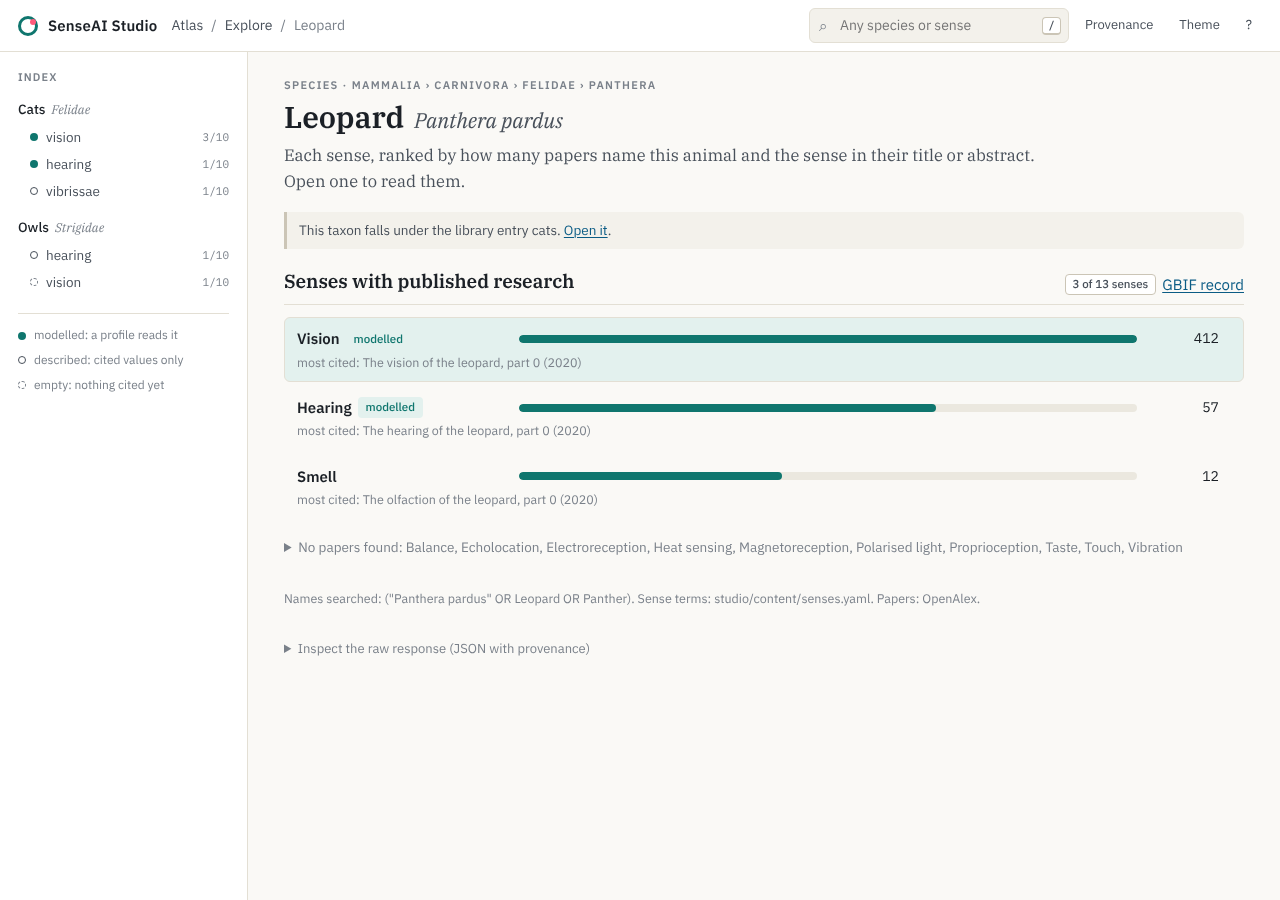
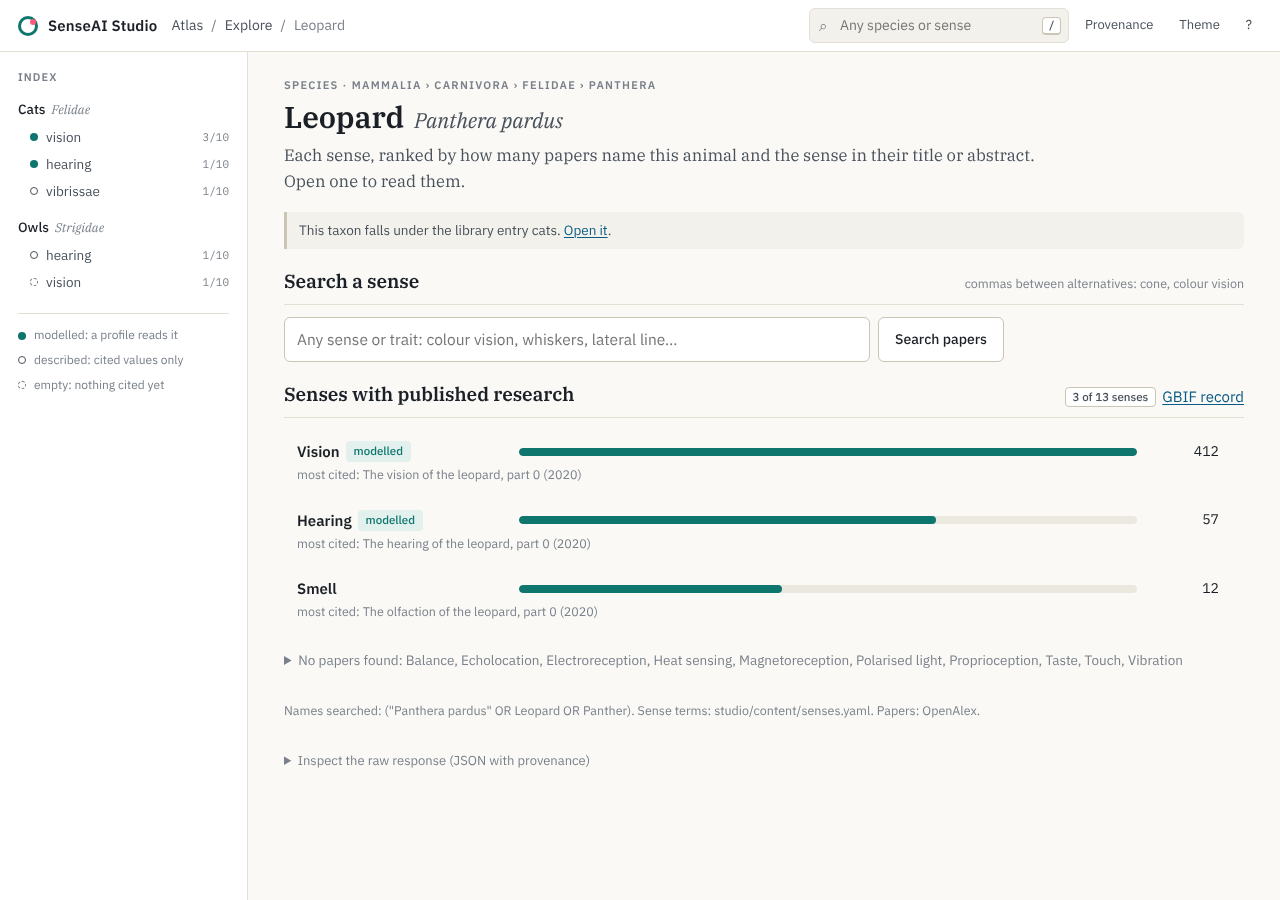
Explore: search any sense or trait on a species, beside the ranked ones
A "Search a sense" box on each taxon page takes any words (commas between
alternatives: "colour vision, cone") and opens the usual papers view for
them: /studio/explore/{key}/search?q=…, served by
GET /api/studio/explore/taxon/{key}/papers?q=. Sorting and paging keep
the query; the research assistant can summarise it like any sense.

Claude-Session: https://claude.ai/code/session_01Q4Ph61ujkYq3wHYFq86CZT

diff --git a/web/src/pages/explore.ts b/web/src/pages/explore.ts
@@ -5,6 +5,7 @@
 //   /studio/explore?q=leopard        taxa with that name (GBIF)
 //   /studio/explore/{key}            the taxon's senses, ranked by how many papers cover each
 //   /studio/explore/{key}/{sense}    those papers, and the research assistant's summary
+//   /studio/explore/{key}/search?q=  the same for any sense or trait typed in
 // Names and papers come from /api/studio/explore/*; the summary from the research service.
 
 import { api, type ExplorePapers, type LibraryLink, type Paper, type SenseHits, type Taxon } from "../api.ts";
@@ -35,6 +36,25 @@ export function speciesSearch(value = ""): HTMLFormElement {
   input.placeholder = "Any animal: leopard, barn owl, Octopus vulgaris…";
   input.setAttribute("aria-label", "Search any species");
   const go = el("button", "btn primary", "Search");
+  go.type = "submit";
+  f.append(input, go);
+  return f;
+}
+
+/** "Search a sense" on a taxon: any words, commas between alternatives. */
+function senseSearch(key: number, value = ""): HTMLFormElement {
+  const f = el("form", "explore-search sense-search");
+  f.action = `/studio/explore/${key}/search`;
+  f.method = "get";
+  f.setAttribute("role", "search");
+  const input = el("input");
+  input.name = "q";
+  input.type = "search";
+  input.required = true;
+  input.value = value;
+  input.placeholder = "Any sense or trait: colour vision, whiskers, lateral line…";
+  input.setAttribute("aria-label", "Search a sense or trait in this animal");
+  const go = el("button", "btn", "Search papers");
   go.type = "submit";
   f.append(input, go);
   return f;
@@ -133,6 +153,10 @@ async function taxonPage(root: HTMLElement, key: number): Promise<void> {
     holder.replaceChildren(header(`${t.rank ?? "taxon"} · ${lineage(t)}`, titleOf(t), "Each sense, ranked by how many papers name this animal and the sense in their title or abstract. Open one to read them."));
     const lib = libraryNote(t.library);
     if (lib) holder.append(lib);
+    const own = section("", "Search a sense");
+    own.tools.append(el("span", "faint small", "commas between alternatives: cone, colour vision"));
+    own.body.append(senseSearch(key));
+    holder.append(own.box);
     const found = res.senses.filter((s) => s.count);
     const none = res.senses.filter((s) => !s.count);
     const max = Math.max(1, ...found.map((s) => s.count ?? 0));
@@ -220,7 +244,7 @@ function assistant(t: Taxon, sense: ExplorePapers["sense"]): HTMLElement {
   const focus = t.library && sense.library ? { library_path: `${t.library.clade}.senses.${sense.library.id}` } : null;
   const who = t.common_names[0] ? `${t.scientific_name} (${t.common_names[0]})` : t.scientific_name;
   const prompt = `What does the published research say about ${sense.label.toLowerCase()} in ${who}? Search the literature, then summarise the main findings, with numbers where papers report them and the paper each one comes from. End with what is still unknown.`;
-  const key = `explore:conversation:${t.key}:${sense.id}`;
+  const key = `explore:conversation:${t.key}:${sense.id ?? `q:${sense.terms.join(",")}`}`;
   let reply: HTMLElement | null = null;
   const chips = new Map<string, HTMLElement>();
 
@@ -295,16 +319,23 @@ function assistant(t: Taxon, sense: ExplorePapers["sense"]): HTMLElement {
   return sec.box;
 }
 
-async function sensePage(root: HTMLElement, key: number, sense: string): Promise<void> {
+async function sensePage(root: HTMLElement, key: number, sense: string | null): Promise<void> {
   const params = new URLSearchParams(location.search);
   const sort = params.get("sort") === "recent" ? "recent" : "cited";
   const pageNo = Math.max(1, Number(params.get("page")) || 1);
-  const { page } = await shell(root, [["Atlas", "/studio"], ["Explore", "/studio/explore"], [String(key), `/studio/explore/${key}`], [sense, null]]);
+  const q = params.get("q")?.trim() ?? "";
+  const href = (s: string, p?: number): string => {
+    const u = new URLSearchParams(q && !sense ? { q } : {});
+    u.set("sort", s);
+    if (p) u.set("page", String(p));
+    return `?${u}`;
+  };
+  const { page } = await shell(root, [["Atlas", "/studio"], ["Explore", "/studio/explore"], [String(key), `/studio/explore/${key}`], [sense ?? `“${q}”`, null]]);
   const holder = el("div", "explore");
   holder.append(el("p", "loading muted", "Collecting the papers…"));
   page.append(holder);
   try {
-    const res = await api.explorePapers(key, sense, sort, pageNo);
+    const res = sense ? await api.explorePapers(key, sense, sort, pageNo) : await api.exploreSearch(key, q, sort, pageNo);
     const t = res.taxon;
     document.title = `${name(t)} · ${res.sense.label} · SenseAI Studio`;
     const crumb = document.querySelectorAll(".crumbs a")[2];
@@ -312,12 +343,13 @@ async function sensePage(root: HTMLElement, key: number, sense: string): Promise
     holder.replaceChildren(header(`${t.rank ?? "taxon"} · ${lineage(t)}`, titleOf(t, res.sense.label)));
     const lib = libraryNote(t.library, res.sense.library);
     if (lib) holder.append(lib);
+    if (!sense) holder.append(senseSearch(key, q));
     holder.append(assistant(t, res.sense));
 
     const sec = section("", "Published research");
     const toggle = el("div", "seg");
     for (const [id, label] of [["cited", "Most cited"], ["recent", "Newest"]] as const) {
-      const a = link(label, `?sort=${id}`);
+      const a = link(label, href(id));
       if (id === res.sort) a.setAttribute("aria-current", "true");
       toggle.append(a);
     }
@@ -332,14 +364,14 @@ async function sensePage(root: HTMLElement, key: number, sense: string): Promise
     const pages = res.pages;
     if (pages > 1) {
       const nav = el("nav", "pager");
-      if (res.page > 1) nav.append(link("← Previous", `?sort=${res.sort}&page=${res.page - 1}`));
+      if (res.page > 1) nav.append(link("← Previous", href(res.sort, res.page - 1)));
       nav.append(el("span", "faint small", `page ${res.page} of ${pages.toLocaleString()}`));
-      if (res.page < pages) nav.append(link("Next →", `?sort=${res.sort}&page=${res.page + 1}`));
+      if (res.page < pages) nav.append(link("Next →", href(res.sort, res.page + 1)));
       sec.body.append(nav);
     }
-    const q = el("p", "faint small");
-    q.append(`${SOURCE[res.source]} query: `, el("code", "mono", res.filter));
-    sec.body.append(q);
+    const used = el("p", "faint small");
+    used.append(`${SOURCE[res.source]} query: `, el("code", "mono", res.filter));
+    sec.body.append(used);
     holder.append(sec.box, inspect(res));
   } catch (e) {
     holder.replaceChildren(errorBox(e));
@@ -350,5 +382,6 @@ export function explorePage(root: HTMLElement, key?: string, sense?: string): Pr
   if (!key) return resultsPage(root, new URLSearchParams(location.search).get("q")?.trim() ?? "");
   const k = Number(key);
   if (!Number.isInteger(k)) return resultsPage(root, key);
+  if (sense === "search") return sensePage(root, k, null);
   return sense ? sensePage(root, k, sense) : taxonPage(root, k);
 }

diff --git a/web/src/api.ts b/web/src/api.ts
@@ -275,7 +275,7 @@ export interface Paper {
 
 export interface ExplorePapers extends WithProv {
   taxon: Taxon;
-  sense: { id: string; label: string; terms: string[]; library: { id: string; state: Chip["state"] } | null };
+  sense: { id: string | null; label: string; terms: string[]; library: { id: string; state: Chip["state"] } | null };
   source: "openalex" | "europepmc";
   filter: string;
   sort: "cited" | "recent";
@@ -310,6 +310,8 @@ export const api = {
   health: () => get<Health>("/api/studio/health"),
   exploreSpecies: (q: string) => get<ExploreSpecies>(`/api/studio/explore/species?q=${encodeURIComponent(q)}`),
   exploreTaxon: (key: number) => get<ExploreTaxon>(`/api/studio/explore/taxon/${key}`),
+  exploreSearch: (key: number, q: string, sort: string, page: number) =>
+    get<ExplorePapers>(`/api/studio/explore/taxon/${key}/papers?q=${encodeURIComponent(q)}&sort=${encodeURIComponent(sort)}&page=${page}`),
   explorePapers: (key: number, sense: string, sort: string, page: number) =>
     get<ExplorePapers>(`/api/studio/explore/taxon/${key}/${encodeURIComponent(sense)}/papers?sort=${encodeURIComponent(sort)}&page=${page}`),
   sources: (c: string, s: string) => get<Sources>(`${base(c, s)}/sources`),

diff --git a/web/src/studio.css b/web/src/studio.css
@@ -471,3 +471,4 @@ td.too-few { color: var(--proposed); }
   .sense-row { grid-template-columns: 1fr 64px; grid-template-areas: "label count" "bar bar" "top top"; }
   .sense-row .src { display: none; }
 }
+.sense-search { max-width: 720px; }

diff --git a/src/senseai_studio/explore.py b/src/senseai_studio/explore.py
@@ -55,6 +55,10 @@ class RateLimited(ExploreError):
     """The service answered 429 after the retries."""
 
 
+class BadQuery(Exception):
+    """The search text has nothing to search for."""
+
+
 class NotFound(Exception):
     """No such taxon or sense."""
 
@@ -88,6 +92,16 @@ def english_names(rows: list[dict[str, Any]]) -> list[str]:
         if n and n.lower() not in {x.lower() for x in out}:
             out.append(n)
     return out
+
+
+def custom_terms(q: str) -> list[str]:
+    """``"colour vision, cone"`` -> ``["colour vision", "cone"]``: at most 10, 80 chars each."""
+    out: list[str] = []
+    for part in q.split(","):
+        t = " ".join(part.replace('"', " ").split())[:80]
+        if t and t.lower() not in {x.lower() for x in out}:
+            out.append(t)
+    return out[:10]
 
 
 def _int(v: Any) -> int | None:
@@ -496,8 +510,32 @@ class Explore:
     ) -> dict[str, Any]:
         """The papers on one sense of the taxon, a page at a time, and how many per year."""
         s, line = self._sense(sense)
-        t = await self._taxon_full(key)
         terms = [str(x) for x in s.get("terms") or [sense]]
+        info = {"id": sense, "label": s.get("label") or sense, "terms": terms}
+        return await self._papers(key, info, (self.senses().label, line), sort, page)
+
+    async def search_papers(
+        self, key: int, q: str, sort: str = "cited", page: int = 1
+    ) -> dict[str, Any]:
+        """Papers on any sense or trait typed in: comma-separated terms, any one of which."""
+        terms = custom_terms(q)
+        if not terms:
+            raise BadQuery(
+                "type a sense or trait, e.g. colour vision, or several separated by commas"
+            )
+        info = {"id": None, "label": q.strip(), "terms": terms}
+        return await self._papers(key, info, ("query:q", q.strip()), sort, page)
+
+    async def _papers(
+        self,
+        key: int,
+        info: dict[str, Any],
+        where: tuple[str, int | str | None],
+        sort: str,
+        page: int,
+    ) -> dict[str, Any]:
+        t = await self._taxon_full(key)
+        terms = info["terms"]
         sort = sort if sort in SORTS else "cited"
         page = max(page, 1)
         got: dict[str, Any] | None = None
@@ -508,17 +546,12 @@ class Explore:
             got = await self._papers_epmc(t, terms, sort, page)
         p = Prov()
         p.add("taxon", "gbif:species", key)
-        p.add("sense/terms", self.senses().label, line)
+        p.add("sense/terms", *where)
         p.add("papers", f"{got['source']}:works", got["filter"])
         lib = t["library"]
         return got | {
             "taxon": t,
-            "sense": {
-                "id": sense,
-                "label": s.get("label") or sense,
-                "terms": terms,
-                "library": (lib or {}).get("senses", {}).get(sense),
-            },
+            "sense": info | {"library": (lib or {}).get("senses", {}).get(info["id"] or "")},
             "sort": sort,
             "page": page,
             "per_page": PER_PAGE,

diff --git a/src/senseai_studio/app.py b/src/senseai_studio/app.py
@@ -20,6 +20,7 @@
     GET  /api/studio/explore/species?q=              any taxon by name (GBIF)
     GET  /api/studio/explore/taxon/{key}             its senses, ranked by papers (OpenAlex)
     GET  /api/studio/explore/taxon/{key}/{sense}/papers  the papers on one sense
+    GET  /api/studio/explore/taxon/{key}/papers?q=   the papers on any sense typed in
     *    /api/studio/research/*                      proxy to RESEARCH_URL (when set)
 
 Every JSON response carries ``provenance``. Studio reads repos read-only.
@@ -184,6 +185,8 @@ def create_app(cfg: Settings | None = None, **kw: Any) -> Any:
             return await coro
         except explore.NotFound as e:
             raise HTTPException(404, str(e)) from e
+        except explore.BadQuery as e:
+            raise HTTPException(422, str(e)) from e
         except explore.ExploreError as e:
             raise HTTPException(502, str(e)) from e
 
@@ -196,6 +199,11 @@ def create_app(cfg: Settings | None = None, **kw: Any) -> Any:
     async def explore_taxon(key: int) -> Any:
         """The taxon's senses, ranked by how many papers cover each."""
         return await outside(ex.taxon(key))
+
+    @app.get("/api/studio/explore/taxon/{key}/papers", response_model=models.ExplorePapersOut)
+    async def explore_search(key: int, q: str, sort: str = "cited", page: int = 1) -> Any:
+        """Papers on any sense or trait (q: terms separated by commas, any one of which)."""
+        return await outside(ex.search_papers(key, q, sort, page))
 
     @app.get(
         "/api/studio/explore/taxon/{key}/{sense}/papers", response_model=models.ExplorePapersOut

diff --git a/tests/test_web_smoke.py b/tests/test_web_smoke.py
@@ -265,6 +265,17 @@ def test_explore_any_species(cfg: Settings, research_server: str, page: Any) -> 
         ]
         assert "412" in rows.first.inner_text() and "modelled" in rows.first.inner_text()
         assert pg.locator(".no-papers summary").count() == 1
+        pg.fill(".sense-search input[name=q]", "retina, colour vision")
+        pg.press(".sense-search input[name=q]", "Enter")
+        pg.wait_for_selector(".paper")
+        assert "/studio/explore/5219436/search?q=" in pg.url
+        assert "retina, colour vision" in pg.locator(".page-title").inner_text()
+        pg.click(".seg a:has-text('Newest')")
+        pg.wait_for_selector(".seg a[aria-current='true']:has-text('Newest')")
+        assert "q=retina" in pg.url, "sorting keeps the typed sense"
+        pg.go_back()
+        pg.go_back()
+        pg.wait_for_selector(".sense-row")
         if shots:
             pg.screenshot(path=f"{shots}/explore-senses.png", full_page=True)
         rows.first.click()

diff --git a/tests/test_explore.py b/tests/test_explore.py
@@ -113,3 +113,20 @@ def test_openalex_429_falls_back_to_europe_pmc(
     )
     assert first["open_access"] == "https://europepmc.org/article/PMC/PMC0"
     assert first["doi"] == "https://doi.org/10.2000/vision.0"
+
+
+def test_search_any_sense(cfg: Settings) -> None:
+    c = _client(cfg)
+    d = c.get(
+        "/api/studio/explore/taxon/5219436/papers",
+        params={"q": " retina,  colour  vision, Retina "},
+    ).json()
+    assert d["sense"] == {
+        "id": None,
+        "label": "retina,  colour  vision, Retina",
+        "terms": ["retina", "colour vision"],
+        "library": None,
+    }
+    assert d["filter"].endswith('AND (retina OR "colour vision")')
+    assert d["total"] == 412 and len(d["papers"]) == 25
+    assert c.get("/api/studio/explore/taxon/5219436/papers", params={"q": " , "}).status_code == 422

diff --git a/README.md b/README.md
@@ -45,7 +45,7 @@ Two rules shape Studio:
 | **Pipeline** | The ten steps (`content/pipeline.yaml`, or profiles' `docs/pipeline/steps.yaml`) as a checklist with dates and evidence, and the clock: days since step 1, *partial* when steps were done out of order. |
 | **Use cases** | `content/use_cases/<niche>.<sense>.md`, rendered, with the pipeline step beside every claim. |
 | **Research** | Only when `RESEARCH_URL` is set: the research service's chat focused on `<clade>.senses.<sense>`, with its approval cards. |
-| **Explore** (`/studio/explore`) | Any animal, whether or not the library has it. Search by common or scientific name (GBIF's backbone taxonomy). A taxon's page ranks its senses by how many papers name the animal and the sense in their title or abstract (OpenAlex; the terms per sense are in `content/senses.yaml`, and each count shows the query it came from). A sense's page lists those papers, most cited or newest, with papers per year, abstracts and free full-text links. If OpenAlex is rate-limiting (429), counts and papers come from Europe PMC instead, and the page says so. When `RESEARCH_URL` is set, *Summarise this research* asks the research assistant for a sourced summary. Links into the workspace when the library covers the taxon. |
+| **Explore** (`/studio/explore`) | Any animal, whether or not the library has it. Search by common or scientific name (GBIF's backbone taxonomy). A taxon's page ranks its senses by how many papers name the animal and the sense in their title or abstract (OpenAlex; the terms per sense are in `content/senses.yaml`, and each count shows the query it came from). A *Search a sense* box takes any sense or trait (`colour vision, cone`: commas between alternatives) and opens the same papers view. A sense's page lists those papers, most cited or newest, with papers per year, abstracts and free full-text links. If OpenAlex is rate-limiting (429), counts and papers come from Europe PMC instead, and the page says so. When `RESEARCH_URL` is set, *Summarise this research* asks the research assistant for a sourced summary. Links into the workspace when the library covers the taxon. |
 
 Screenshots on the real stack (structured prior, no training, circuits P1) are in
 [`docs/screens/`](docs/screens):
@@ -148,6 +148,7 @@ GET  /api/studio/health                          repos found, SHAs, circuits/res
 GET  /api/studio/explore/species?q=              any taxon by name (GBIF), with its library entry
 GET  /api/studio/explore/taxon/{key}             its senses, ranked by paper count (OpenAlex)
 GET  /api/studio/explore/taxon/{key}/{sense}/papers   the papers (sort=cited|recent, page=)
+GET  /api/studio/explore/taxon/{key}/papers?q=   the papers on any sense typed in
 ```
 
 Studio reads repos read-only and never writes to them. Pinned upstream commits and the formats
